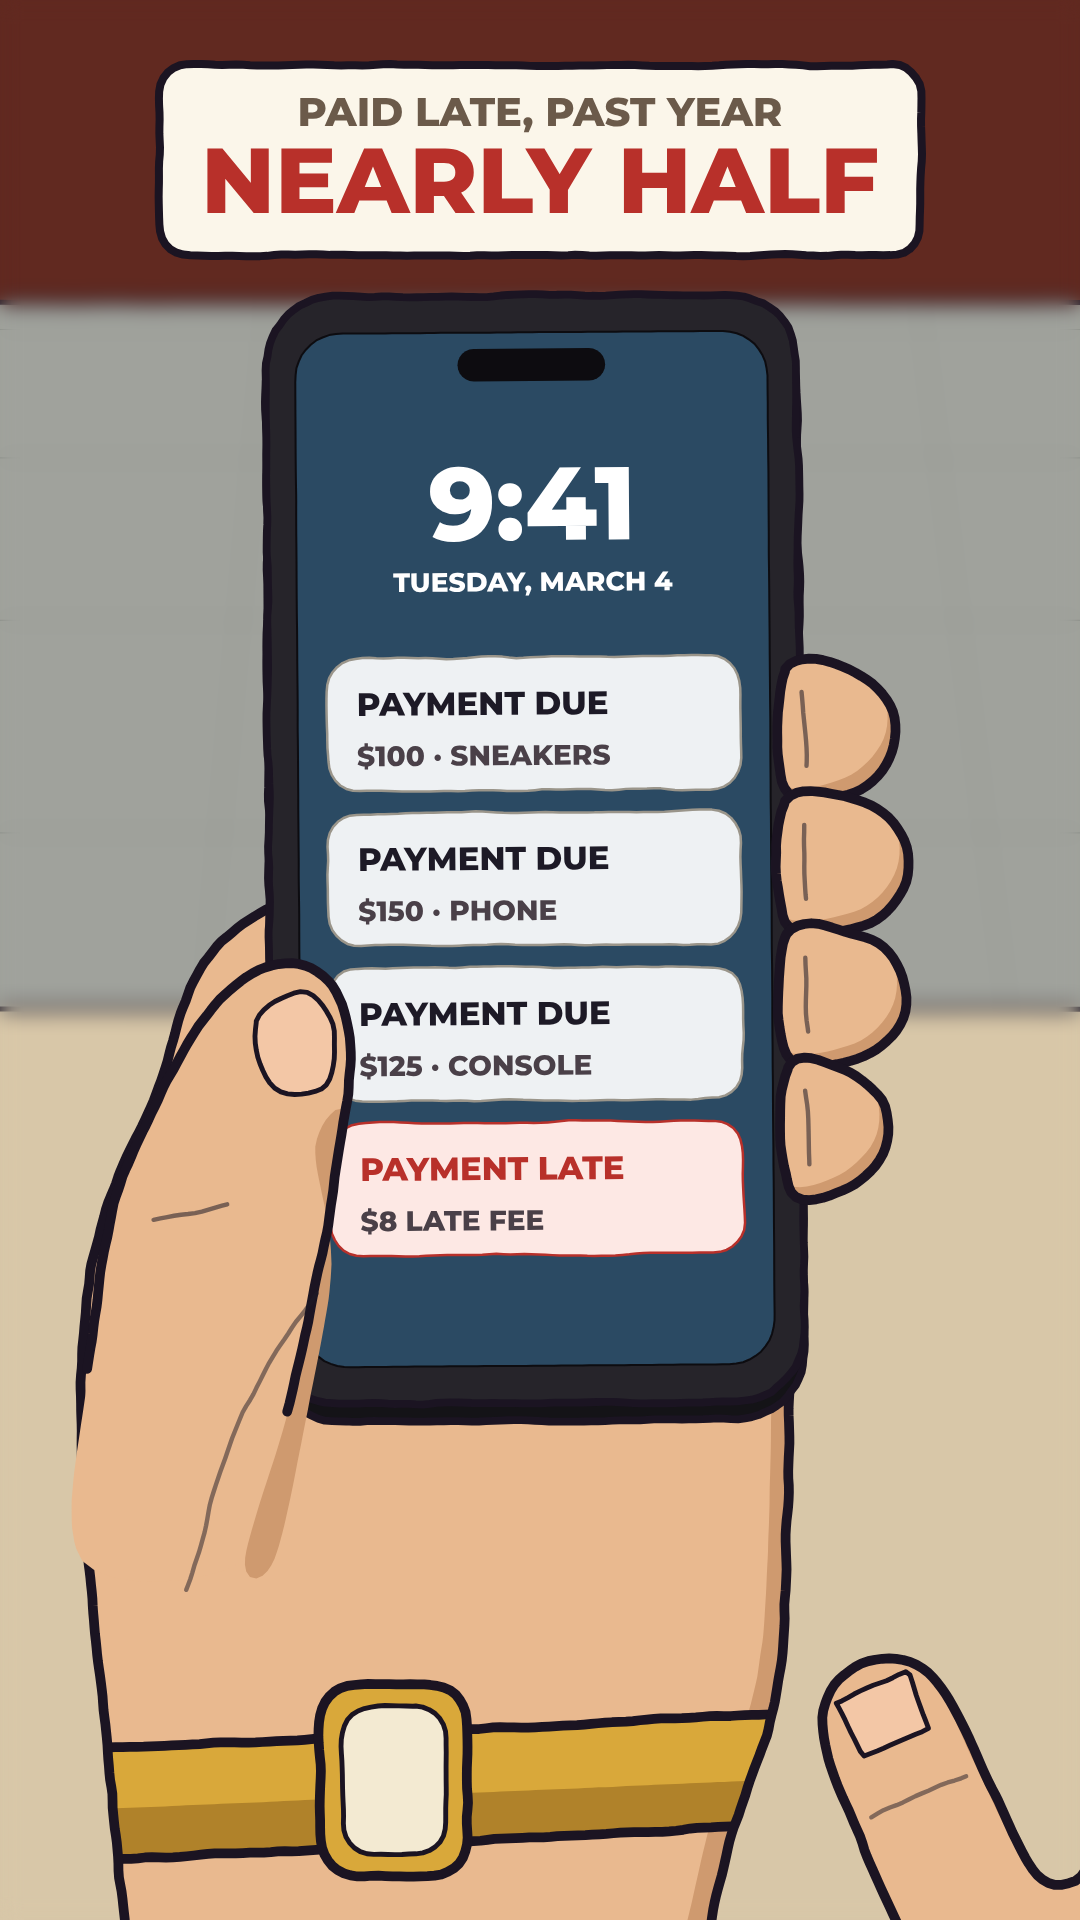
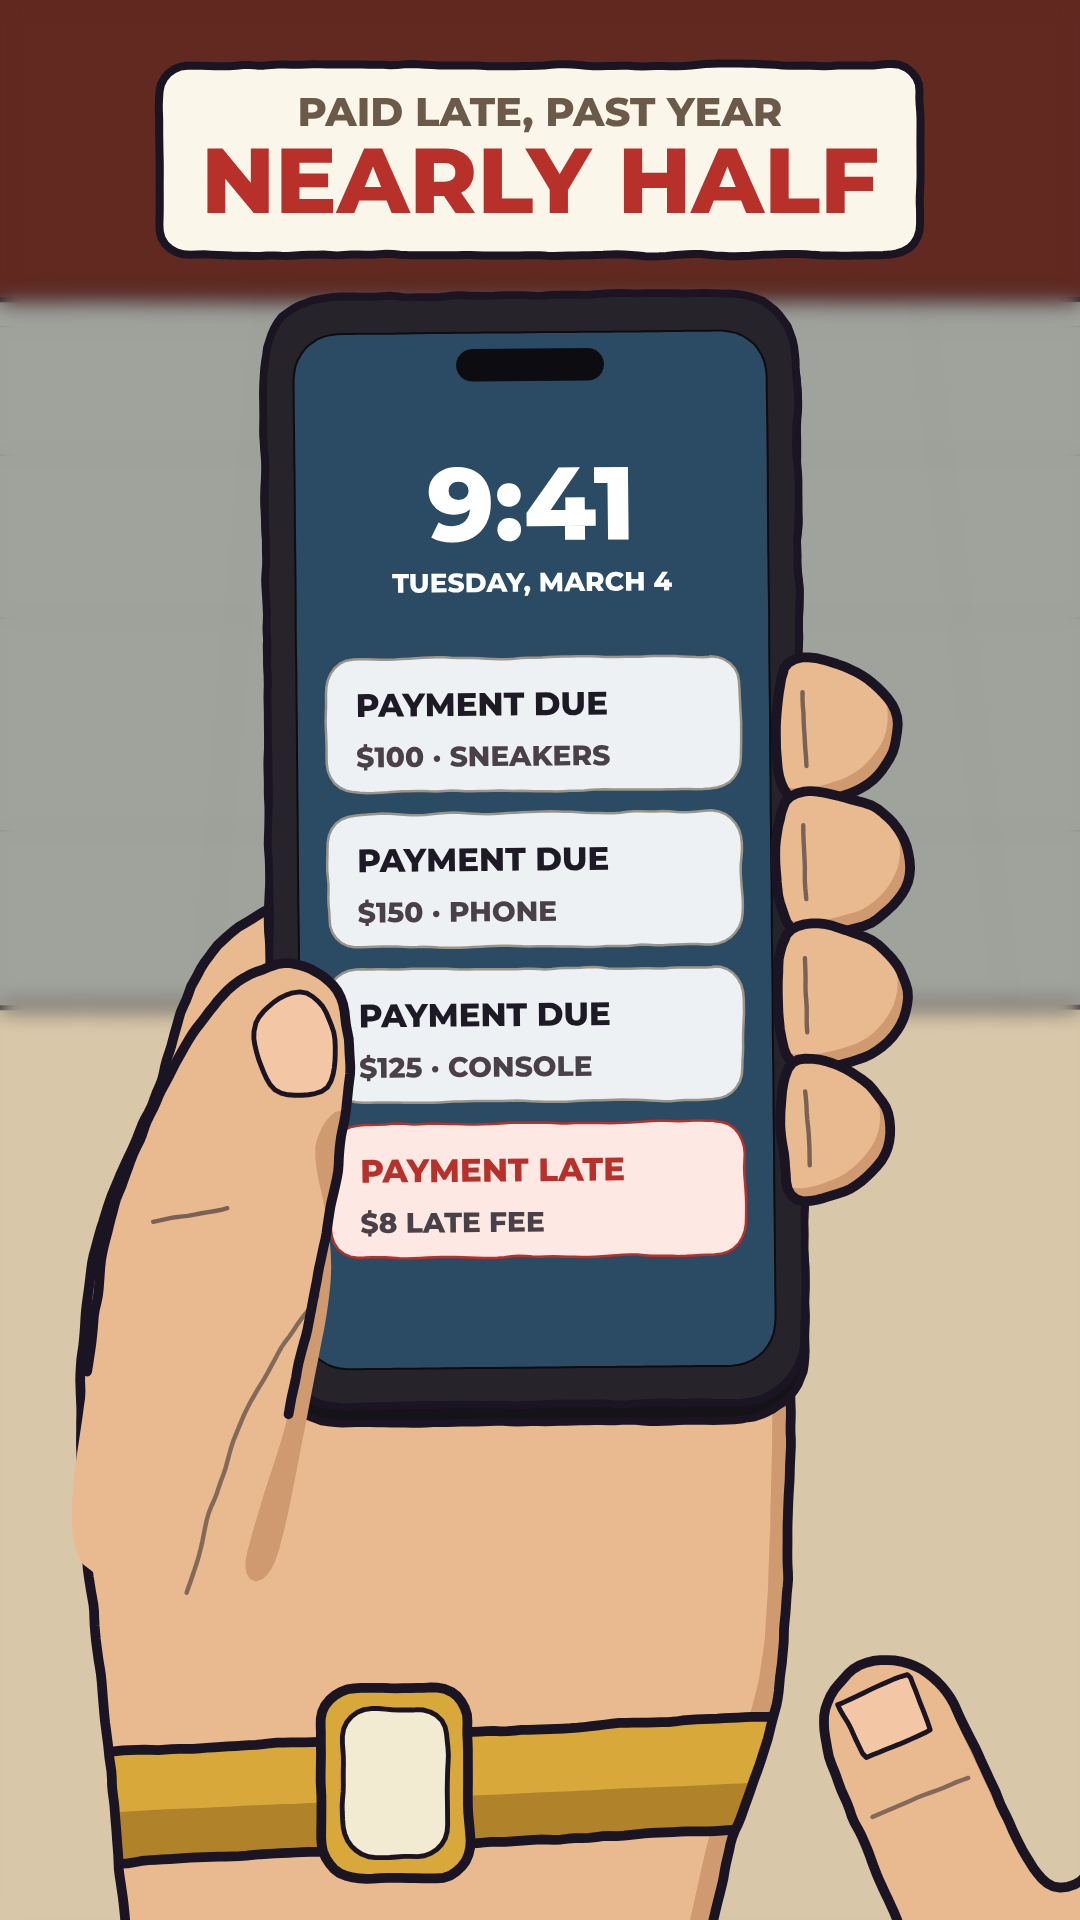
Ep 2: the late-fee scene matches the lender's terms (checked on Afterpay's US installment agreement: up to $8 only after 10 days unpaid, capped at 25%)
The first cut had a payment two days late bring a fee, which those terms do not allow. The line is now 'One bounces two
days before payday. Ten days later, a late fee.', the cards read PAYMENT BOUNCES and UP TO $8 AFTER 10 DAYS, and the
sources, description and pinned comment say the same. Only that line was re-voiced; the shots stay on their words.

Claude-Session: https://claude.ai/code/session_016c6ARmPUr2BrGtPLGExamv

diff --git a/reels/money/ep02-bnpl/src/captions.js b/reels/money/ep02-bnpl/src/captions.js
@@ -1,5 +1,5 @@
 // written by engine/retime.py from audio/vo.words.json
-export const CAPTIONS = [[-0.03, "before you split", 0.77], [0.77, "<b>400</b> dollars into", 2.05], [2.05, "four payments", 3.09], [3.09, "watch what happens", 3.97], [3.97, "to your next", 4.57], [4.57, "six weeks", 5.49], [5.49, "max wants sneakers", 6.93], [6.93, "<b>400</b> dollars", 8.05], [8.05, "or four payments", 9.01], [9.01, "of <b>100</b>", 9.89], [9.89, "<b>100</b> feels cheaper", 11.17], [11.17, "so he taps", 11.81], [11.81, "pay later", 12.45], [12.45, "theo waits <b>three</b>", 13.33], [13.33, "weeks and saves", 13.97], [13.97, "up", 14.29], [14.29, "then max buys", 15.17], [15.17, "a phone the", 15.73], [15.73, "same way", 16.37], [16.37, "then a console", 17.41], [17.41, "now <b>three</b> plans", 18.29], [18.29, "take money every", 18.97], [18.97, "two weeks", 19.65], [19.65, "one lands two", 20.45], [20.45, "days before payday", 21.57], [21.57, "<b>late</b> <b>fee</b>", 22.21], [22.21, "one in four", 23.01], [23.01, "users has had", 23.89], [23.89, "<b>three</b> or more", 24.45], [24.45, "of these loans", 25.25], [25.25, "at once", 25.97], [25.97, "and one large", 26.77], [26.77, "study found shoppers", 28.13], [28.13, "spend about <b>10</b>", 28.97], [28.97, "percent more", 29.57], [29.57, "when they can", 30.05], [30.05, "split the price", 31.01], [31.01, "the plans charge", 32.13], [32.13, "no <b>interest</b>", 33.09], [33.09, "the trap is", 33.73], [33.73, "that small payments", 34.77], [34.77, "make it easy", 35.49], [35.49, "to say <b>yes</b>", 36.77], [36.77, "one plan at", 37.65], [37.65, "a time", 38.13], [38.13, "and only for", 38.85], [38.85, "something you", 39.41], [39.41, "could pay for", 39.97], [39.97, "<b>today</b>", 40.8]];
-export const DURATION = 41.45;
+export const CAPTIONS = [[-0.03, "before you split", 0.77], [0.77, "<b>400</b> dollars into", 2.05], [2.05, "four payments", 3.09], [3.09, "watch what happens", 3.97], [3.97, "to your next", 4.57], [4.57, "six weeks", 5.49], [5.49, "max wants sneakers", 6.93], [6.93, "<b>400</b> dollars", 8.05], [8.05, "or four payments", 9.01], [9.01, "of <b>100</b>", 9.89], [9.89, "<b>100</b> feels cheaper", 11.17], [11.17, "so he taps", 11.81], [11.81, "pay later", 12.45], [12.45, "theo waits <b>three</b>", 13.33], [13.33, "weeks and saves", 13.97], [13.97, "up", 14.29], [14.29, "then max buys", 15.17], [15.17, "a phone the", 15.73], [15.73, "same way", 16.37], [16.37, "then a console", 17.41], [17.41, "now <b>three</b> plans", 18.29], [18.29, "take money every", 19.01], [19.01, "two weeks", 19.65], [19.65, "one bounces two", 20.69], [20.69, "days before payday", 21.69], [21.69, "ten days later", 22.77], [22.77, "a <b>late</b> <b>fee</b>", 23.53], [23.53, "one in four", 24.37], [24.37, "users has had", 25.17], [25.17, "<b>three</b> or more", 25.73], [25.73, "of these loans", 26.53], [26.53, "at once", 27.25], [27.25, "and one large", 28.05], [28.05, "study found shoppers", 29.41], [29.41, "spend about <b>10</b>", 30.25], [30.25, "percent more", 30.85], [30.85, "when they can", 31.33], [31.33, "split the price", 32.29], [32.29, "the plans charge", 33.41], [33.41, "no <b>interest</b>", 34.37], [34.37, "the trap is", 35.01], [35.01, "that small payments", 36.05], [36.05, "make it easy", 36.77], [36.77, "to say <b>yes</b>", 38.13], [38.13, "one plan at", 38.93], [38.93, "a time", 39.41], [39.41, "and only for", 40.13], [40.13, "something you", 40.69], [40.69, "could pay for", 41.25], [41.25, "<b>today</b>", 42.08]];
+export const DURATION = 42.73;
 // [time in the first take, time in this take]: the shots are written in first-take seconds
-export const WARP = [[0, 0], [0.32, 0.32], [0.48, 0.48], [0.8, 0.8], [1.32, 1.32], [1.84, 1.84], [2.08, 2.08], [2.32, 2.32], [3.12, 3.12], [3.44, 3.44], [3.68, 3.68], [4.0, 4.0], [4.16, 4.16], [4.32, 4.32], [4.6, 4.6], [4.88, 4.88], [5.52, 5.52], [5.92, 5.92], [6.24, 6.24], [6.96, 6.96], [7.52, 7.52], [8.08, 8.08], [8.32, 8.32], [8.56, 8.56], [9.04, 9.04], [9.12, 9.12], [9.92, 9.92], [10.48, 10.48], [10.72, 10.72], [11.2, 11.2], [11.36, 11.36], [11.44, 11.44], [11.84, 11.84], [12.08, 12.08], [12.48, 12.48], [12.88, 12.88], [13.12, 13.12], [13.36, 13.36], [13.6, 13.6], [13.68, 13.68], [14.0, 14.0], [14.32, 14.32], [14.56, 14.56], [14.88, 14.88], [15.2, 15.2], [15.28, 15.28], [15.6, 15.6], [15.76, 15.76], [15.92, 15.92], [16.4, 16.4], [16.64, 16.64], [16.72, 16.72], [17.44, 17.44], [17.68, 17.68], [17.92, 17.92], [18.32, 18.32], [18.48, 18.48], [18.8, 18.8], [19.0, 19.0], [19.2, 19.2], [19.68, 19.68], [20.0, 20.0], [20.24, 20.24], [20.48, 20.48], [20.72, 20.72], [20.96, 20.96], [21.6, 21.6], [21.84, 21.84], [22.24, 22.24], [22.64, 22.64], [22.84, 22.84], [23.04, 23.04], [23.52, 23.52], [23.68, 23.68], [23.92, 23.92], [24.16, 24.16], [24.32, 24.32], [24.48, 24.48], [24.64, 24.64], [24.88, 24.88], [25.28, 25.28], [25.36, 25.36], [26.0, 26.0], [26.16, 26.16], [26.4, 26.4], [26.8, 26.8], [27.2, 27.2], [27.6, 27.6], [28.16, 28.16], [28.4, 28.4], [28.64, 28.64], [29.0, 29.0], [29.36, 29.36], [29.6, 29.6], [29.76, 29.76], [29.92, 29.92], [30.08, 30.08], [30.4, 30.4], [30.48, 30.48], [31.04, 31.04], [31.2, 31.2], [31.68, 31.68], [32.16, 32.16], [32.48, 32.48], [33.12, 33.12], [33.28, 33.28], [33.6, 33.6], [33.76, 33.76], [34.0, 34.0], [34.32, 34.32], [34.8, 34.8], [35.04, 35.04], [35.2, 35.2], [35.52, 35.52], [35.68, 35.68], [35.92, 35.92], [36.8, 36.8], [37.12, 37.12], [37.52, 37.52], [37.68, 37.68], [37.84, 37.84], [38.16, 38.16], [38.4, 38.4], [38.64, 38.64], [38.88, 38.88], [39.2, 39.2], [39.44, 39.44], [39.6, 39.6], [39.84, 39.84], [40.0, 40.0], [41.45, 41.45]];
+export const WARP = [[0, 0], [0.32, 0.32], [0.48, 0.48], [0.8, 0.8], [1.32, 1.32], [1.84, 1.84], [2.08, 2.08], [2.32, 2.32], [3.12, 3.12], [3.44, 3.44], [3.68, 3.68], [4.0, 4.0], [4.16, 4.16], [4.32, 4.32], [4.6, 4.6], [4.88, 4.88], [5.52, 5.52], [5.92, 5.92], [6.24, 6.24], [6.96, 6.96], [7.52, 7.52], [8.08, 8.08], [8.32, 8.32], [8.56, 8.56], [9.04, 9.04], [9.12, 9.12], [9.92, 9.92], [10.48, 10.48], [10.72, 10.72], [11.2, 11.2], [11.36, 11.36], [11.44, 11.44], [11.84, 11.84], [12.08, 12.08], [12.48, 12.48], [12.88, 12.88], [13.12, 13.12], [13.36, 13.36], [13.6, 13.6], [13.68, 13.68], [14.0, 14.0], [14.32, 14.32], [14.56, 14.56], [14.88, 14.88], [15.2, 15.2], [15.28, 15.28], [15.6, 15.6], [15.76, 15.76], [16.0, 16.0], [16.4, 16.4], [16.64, 16.64], [16.72, 16.72], [17.44, 17.44], [17.68, 17.68], [17.92, 17.92], [18.32, 18.32], [18.48, 18.48], [18.8, 18.8], [19.04, 19.04], [19.2, 19.2], [19.68, 19.68], [19.92, 19.92], [20.32, 20.32], [20.72, 20.72], [21.04, 21.04], [21.28, 21.28], [21.72, 21.72], [22.16, 22.16], [22.4, 22.4], [22.8, 22.8], [22.88, 22.88], [23.2, 23.2], [23.56, 23.56], [23.92, 23.92], [24.16, 24.16], [24.4, 24.4], [24.8, 24.8], [24.96, 24.96], [25.2, 25.2], [25.44, 25.44], [25.6, 25.6], [25.76, 25.76], [25.92, 25.92], [26.16, 26.16], [26.56, 26.56], [26.72, 26.72], [27.28, 27.28], [27.44, 27.44], [27.68, 27.68], [28.08, 28.08], [28.48, 28.48], [28.88, 28.88], [29.44, 29.44], [29.76, 29.76], [29.92, 29.92], [30.28, 30.28], [30.64, 30.64], [30.88, 30.88], [31.04, 31.04], [31.2, 31.2], [31.36, 31.36], [31.68, 31.68], [31.76, 31.76], [32.32, 32.32], [32.48, 32.48], [32.96, 32.96], [33.44, 33.44], [33.76, 33.76], [34.4, 34.4], [34.56, 34.56], [34.88, 34.88], [35.04, 35.04], [35.28, 35.28], [35.6, 35.6], [36.08, 36.08], [36.32, 36.32], [36.48, 36.48], [36.8, 36.8], [36.96, 36.96], [37.2, 37.2], [38.16, 38.16], [38.4, 38.4], [38.8, 38.8], [38.96, 38.96], [39.12, 39.12], [39.44, 39.44], [39.68, 39.68], [39.92, 39.92], [40.16, 40.16], [40.48, 40.48], [40.72, 40.72], [40.88, 40.88], [41.12, 41.12], [41.28, 41.28], [42.73, 42.73]];

diff --git a/reels/money/ep02-bnpl/film.html b/reels/money/ep02-bnpl/film.html
@@ -60,11 +60,11 @@ const renderShot = t => {   // t in the first take's seconds (see TW below)
     const it = t < 14.55 ? ITEMS.phone : ITEMS.console, t0 = t < 14.55 ? 13.9 : 15.2;
     pov(t, () => checkout({ ...it, row: 1, press: t > t0 - .05 && t < t0 + .2 ? 1 : 0, approved: ss(pr(t, t0 + .1, t0 + .4)) }), { tap: { u: 55, v: 127.5, k: tapAt(t, t0) }, t0: 12.6, t1: 15.65 }); }
   else if (t < 19.9) {   // now three plans take money every two weeks; payday lands two days after one of them
-    pov(t, () => payments({ plans: PLANS(t).map(([i, e]) => [i, e, 1]), payday: pr(t, 18.25, 18.6), late: t > 19.0 ? 1 : 0, total: pr(t, 16.6, 16.9) }), { t0: 15.65, t1: 19.9 });
+    pov(t, () => payments({ plans: PLANS(t).map(([i, e]) => [i, e, 1]), payday: t > 18.25 ? 1 : 0,   /* the chip appears whole (growing in, it slid under the row below for a moment) */ late: t > 19.0 ? 1 : 0, total: pr(t, 16.6, 16.9) }), { t0: 15.65, t1: 19.9 });
     card(540, 160, 'EVERY TWO WEEKS', '$375', { col: '#b8302a', w: 520, s: pop_(t, 16.7) * (t < 18.1 ? 1 : 0) });
-    if (t > 18.1) card(540, 160, 'DUE MAR 4 · PAID MAR 6', 'TWO DAYS SHORT', { col: '#b8302a', w: 600, bigPx: 80, s: pop_(t, 18.3) }); }
+    if (t > 18.1) card(540, 160, 'DUE MAR 4 · PAYDAY MAR 6', 'PAYMENT BOUNCES', { col: '#b8302a', w: 600, bigPx: 76, s: pop_(t, 18.3) }); }   // a bounced payment is not yet a fee: the lender's terms give 10 days
   else if (t < 20.6) {   // late fee
-    pov(t, () => payments({ plans: PLANS(t).map(([i, e]) => [i, e, 1]), payday: 1, late: 1, total: 1 }), { over: () => alert({ k: pr(t, 19.9, 20.15) }), t0: 15.65, t1: 20.6 });
+    pov(t, () => payments({ plans: PLANS(t).map(([i, e]) => [i, e, 1]), payday: 1, late: 1, total: 1 }), { over: () => alert({ k: pr(t, 19.9, 20.15), text: 'UP TO $8 AFTER 10 DAYS' }), t0: 15.65, t1: 20.6 });
     stamp(540, 160, 'LATE FEE', pop_(t, 20.0)); }
   else if (t < 24.2) {   // one in four users has had three or more at once: three boxes on Max's doorstep
     const u = ss(pr(t, 20.6, 24.2)), st = { look: [mix(2.25, 2.05, u), 1.05, -10.8], L: lmix(6.6, 5.4, u), down: .16, F: 2300 };

diff --git a/reels/money/ep02-bnpl/SOURCES.md b/reels/money/ep02-bnpl/SOURCES.md
@@ -9,7 +9,7 @@ Checked 21 November 2026. US figures. Every on-screen number is either sourced b
 | Stacking is common (backs the story, not spoken as a number) | CFPB, 13 Jan 2025, data for 2022: https://www.consumerfinance.gov/about-us/newsroom/cfpb-research-reveals-heavy-buy-now-pay-later-use-among-borrowers-with-high-credit-balances-and-multiple-pay-in-four-loans | "Approximately 63 percent of borrowers originated multiple simultaneous loans at some point during the year"; 33% used more than one lender. Lender data, so it independently backs the survey's 63% |
 | Shoppers spend about 10% more when they can split the price | Maesen & Ang, "Buy Now Pay Later: Impact of Installment Payments on Customer Purchases", Journal of Marketing (2024), DOI 10.1177/00222429241282414; summary by the AMA, 4 Feb 2025: https://ama.org/2025/02/04/buy-now-pay-later-increases-customer-spending | About 9% higher purchase incidence and about 10% larger purchase amounts, one major US retailer, effect lasting the 26 weeks studied. Spoken as "one large study", because it is one retailer |
 | Four payments, every two weeks | NerdWallet reviews of Klarna and Afterpay, updated 18 Nov 2026: https://www.nerdwallet.com/personal-loans/reviews/klarna-buy-now-pay-later , https://www.nerdwallet.com/personal-loans/reviews/afterpay-buy-now-pay-later | Pay in 4: the first payment at checkout, three more two weeks apart, no interest |
-| Late fee (on screen: "LATE FEE $8") | Same NerdWallet reviews | Afterpay up to $8 a missed Pay in 4 payment, Klarna up to $7; both cap late fees at 25% of the order. Some lenders charge none. To be confirmed on the lenders' own pages before upload (Klarna's help page did not load) |
+| Late fee (on screen: "LATE FEE · UP TO $8 AFTER 10 DAYS"; spoken: "One bounces two days before payday. Ten days later, a late fee.") | Afterpay US Installment Agreement, last updated September 2026: https://www.afterpay.com/en-US/installment-agreement (read 23 Nov 2026) | Section 4: the late fee applies if an installment "remains unpaid for a period of ten (10) days after the due date", "up to a maximum of $8.00"; total late fees "will not exceed 25% of the order value"; none for Rhode Island residents. Klarna, PayPal and Affirm pages could not be read (blocked or empty); NerdWallet (18 Nov 2026) reports Klarna up to $7 after 10 days overdue. The first cut said a payment two days late brought a fee: wrong under these terms, corrected |
 | Plans charge no interest | Same NerdWallet reviews; CFPB report above | Pay in 4 is interest-free; longer monthly plans can charge interest and are not what this episode shows |
 
 ## Illustrative (shown as plain prices, not claims)

diff --git a/reels/money/ep02-bnpl/UPLOAD.md b/reels/money/ep02-bnpl/UPLOAD.md
@@ -8,7 +8,7 @@
 - **Not used:** "Pay in 4? Watch What Happens in 6 Weeks" (100/100): "Pay in 4" is also a named product of one large payments company
 
 ## Before upload
-- Confirm the late-fee figures ($7 to $8 a missed payment, capped at 25% of the order) on the lenders' own pages (SOURCES.md).
+- Late fee checked on Afterpay's own US terms (23 Nov 2026): up to $8 after 10 days unpaid, capped at 25% of the order. The film now says so.
 
 ## Search
 - **Queries it should win:** buy now pay later · buy now pay later late fees · buy now pay later trap (each one's words are in the title or the first two lines)
@@ -17,7 +17,7 @@
 
 ## Description
 ```
-Buy now, pay later turns $400 into four payments of $100. Here's what happens when the plans stack up: three loans, payments every two weeks, one late fee.
+Buy now, pay later turns $400 into four payments of $100. Here's what happens when the plans stack up: three loans, payments every two weeks, and one that bounces.
 Nearly half of buy now, pay later users paid late in the past year (LendingTree, 2026), and 1 in 4 has had three or more loans at once.
 
 Figures (US): LendingTree BNPL survey, March 2026; CFPB research, January 2025; Maesen & Ang, Journal of Marketing (2024).
@@ -37,6 +37,7 @@ Sources (US, checked November 2026):
   https://www.consumerfinance.gov/about-us/newsroom/cfpb-research-reveals-heavy-buy-now-pay-later-use-among-borrowers-with-high-credit-balances-and-multiple-pay-in-four-loans
 • About 10% more spent when the price can be split: Maesen & Ang, Journal of Marketing (2024), one large US retailer
   https://ama.org/2025/02/04/buy-now-pay-later-increases-customer-spending
-• Late fees of up to $7 to $8 a missed payment, capped at 25% of the order, at two large lenders (NerdWallet reviews, Nov 2026); some lenders charge none.
+• Late fee: Afterpay's US terms charge up to $8 if a payment stays unpaid 10 days after it's due, capped at 25% of the order
+  https://www.afterpay.com/en-US/installment-agreement (other lenders differ; some charge none).
 Prices in the story are illustrative. Education, not financial advice.
 ```
